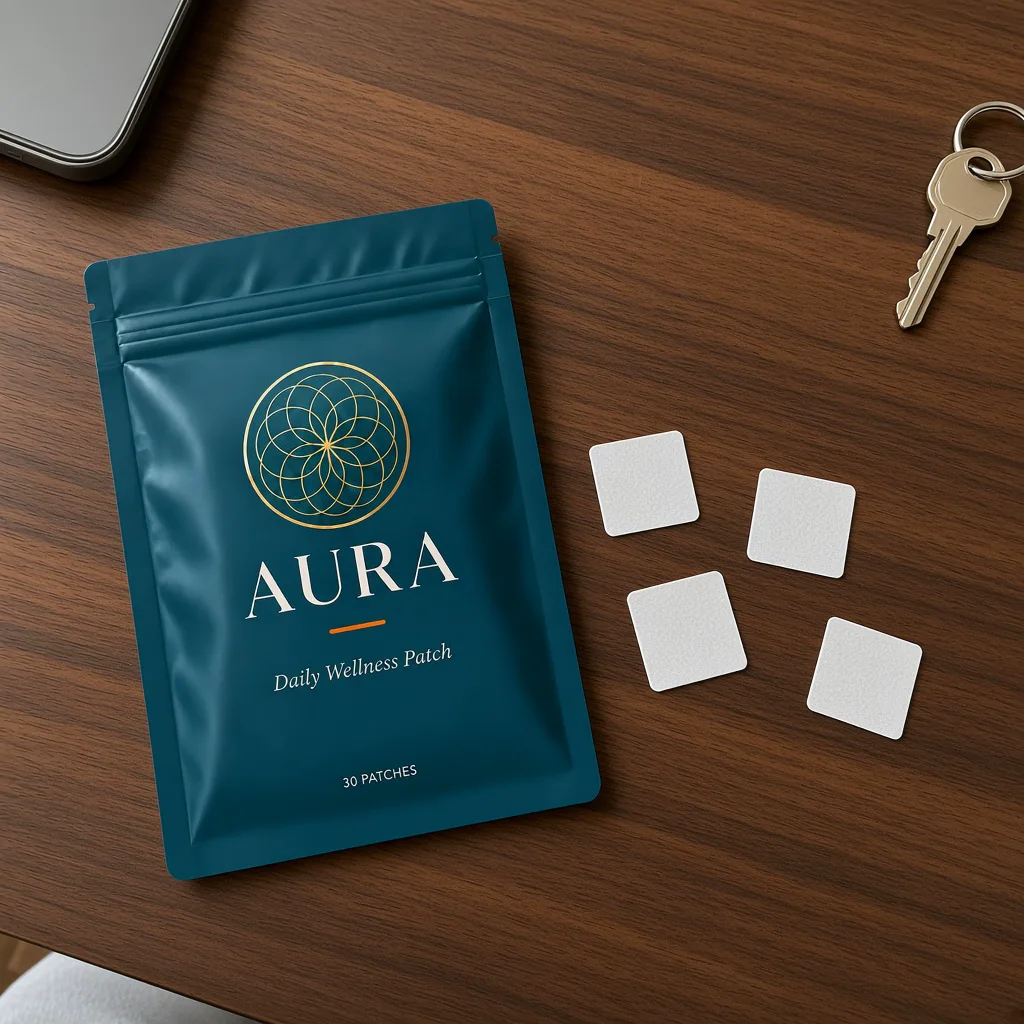
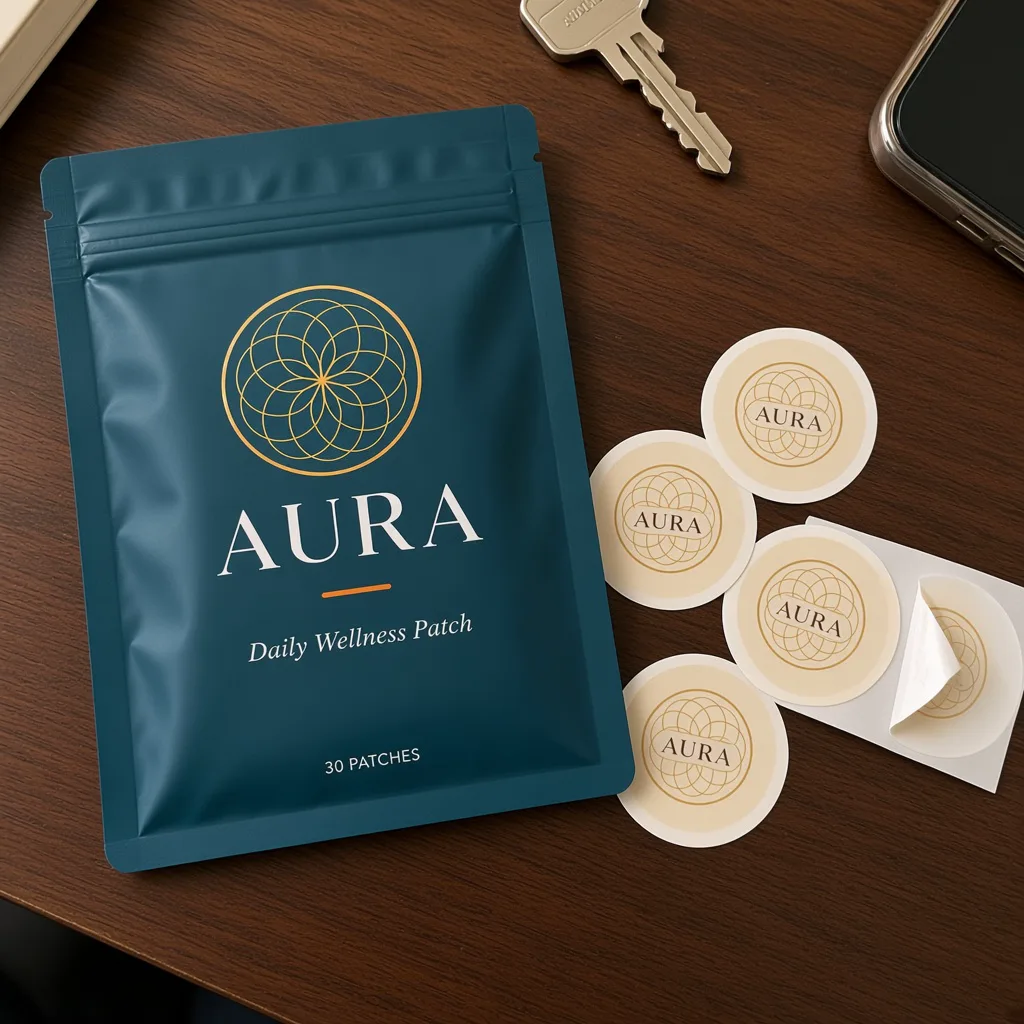
Show round AURA patches in the review photos.
The table and open-pouch shots were using plain white squares. They now use the round cream patch with AURA and the flower of life.

diff --git a/apps/storefront/src/lib/data/aura-reviews.ts b/apps/storefront/src/lib/data/aura-reviews.ts
@@ -11,9 +11,9 @@ export type AuraReview = {
 const photos = [
   ["/images/reviews/review-kitchen.webp", "Aura pouch on a kitchen counter next to a cereal bowl and mail"],
   ["/images/reviews/review-outdoors.webp", "Hand holding an Aura pouch in a car"],
-  ["/images/reviews/review-desk.webp", "Aura pouch on a wood table beside four white patches and a house key"],
+  ["/images/reviews/review-desk.webp", "Aura pouch on a wood table beside round cream patches printed with AURA and the flower of life"],
   ["/images/reviews/review-window.webp", "Bathroom mirror photo of a woman holding an Aura pouch"],
-  ["/images/reviews/review-portrait.webp", "Hand holding an open Aura pouch with white patches inside"],
+  ["/images/reviews/review-portrait.webp", "Hand holding an open Aura pouch with a stack of round AURA patches inside"],
   ["/images/reviews/review-sidewalk.webp", "Woman holding a closed Aura pouch in a hallway"],
   ["/images/reviews/review-living-room.webp", "Back of an Aura pouch on a bedspread, showing the ingredient panel"],
 ] as const
